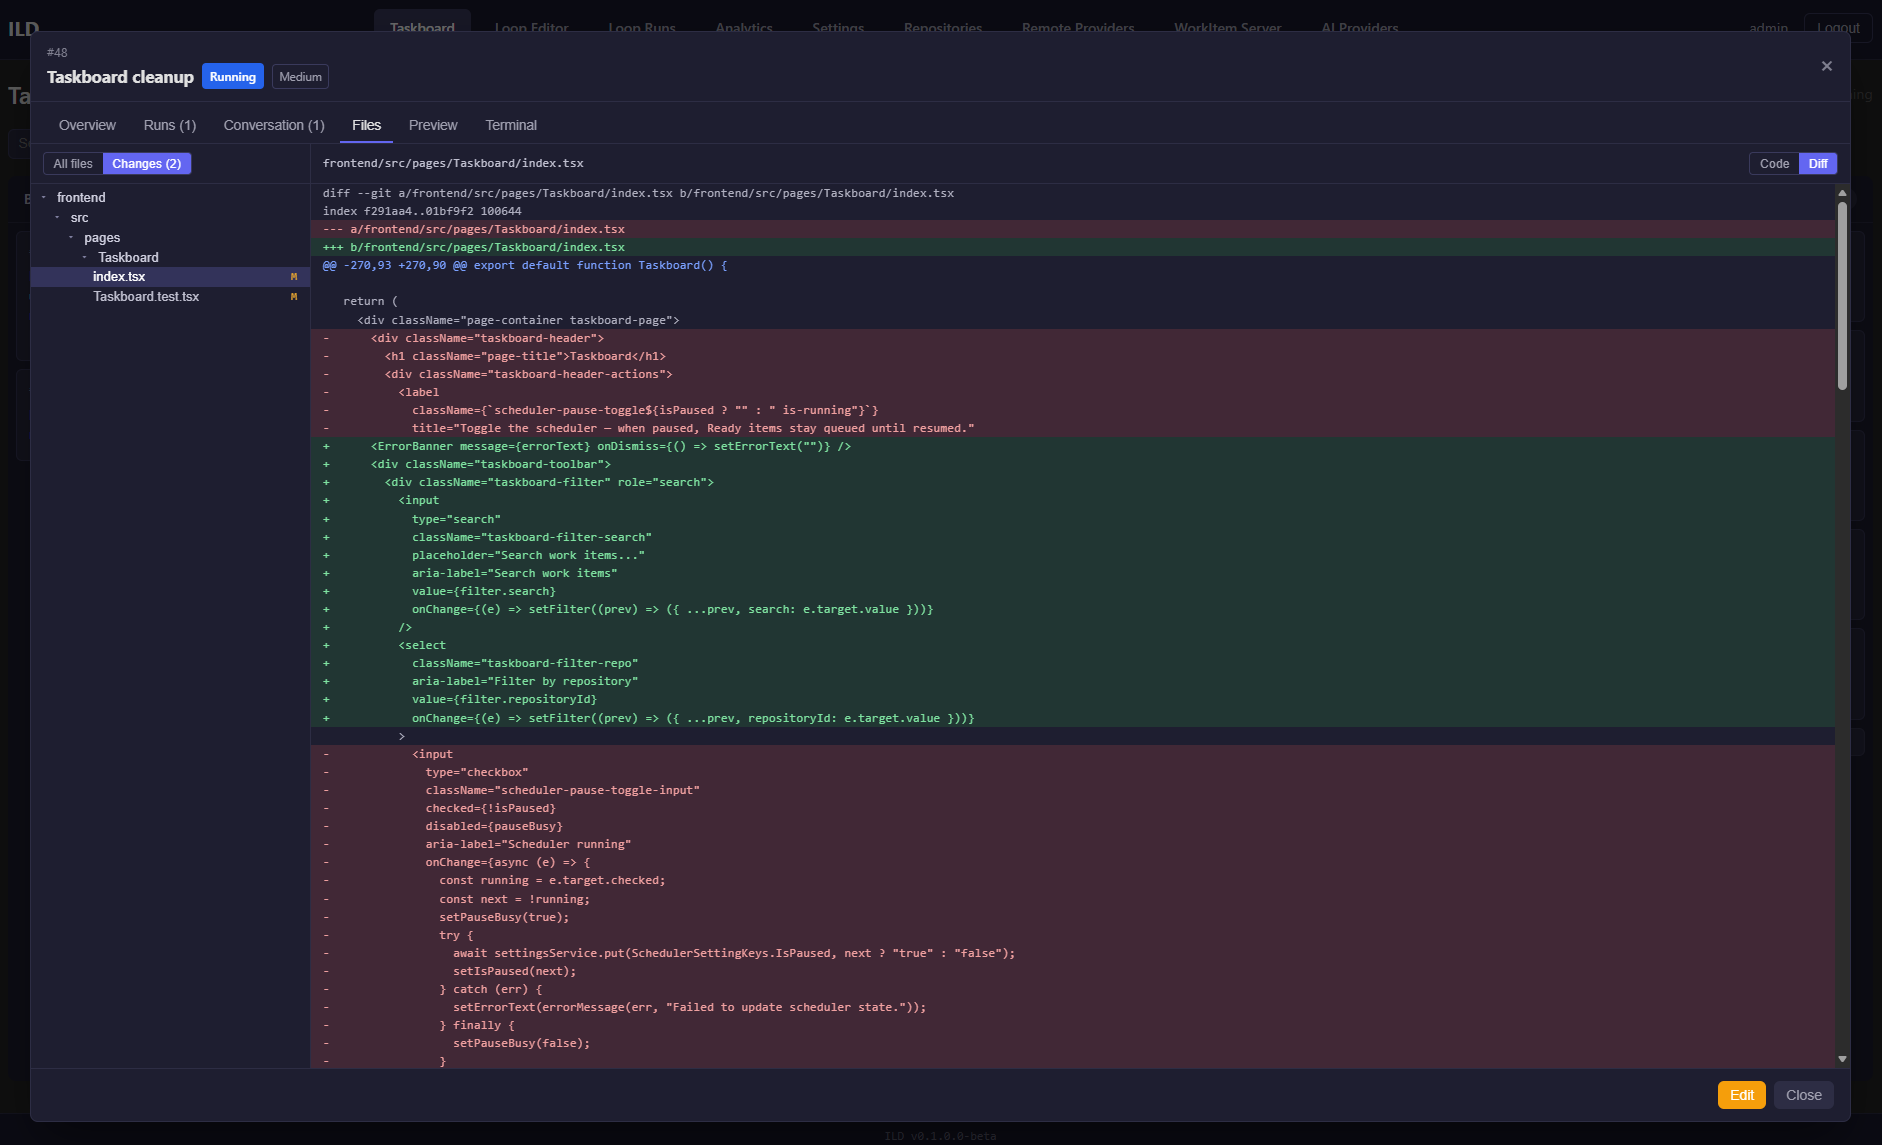
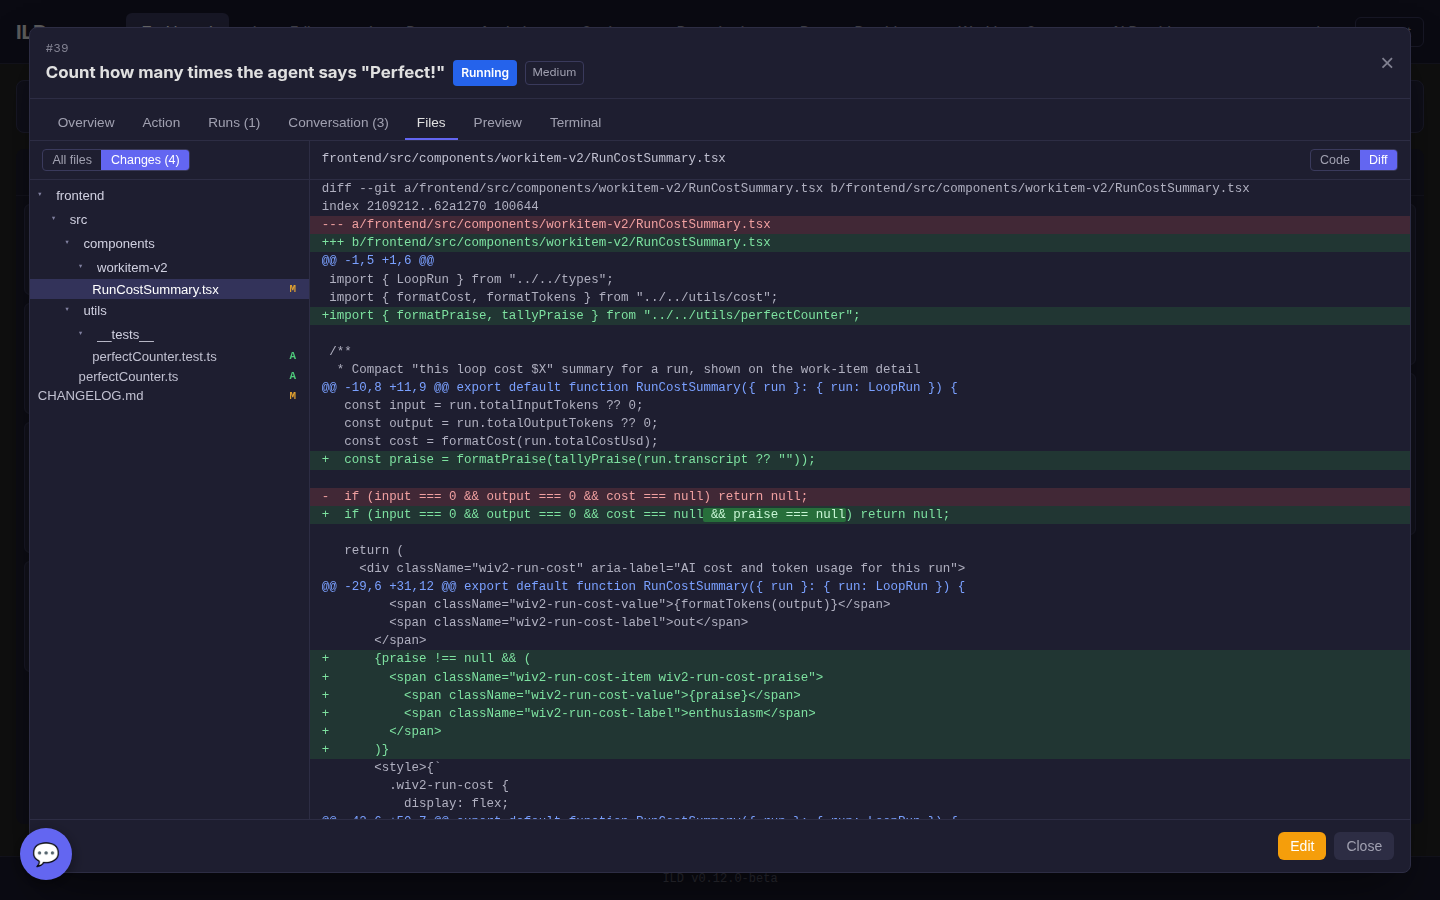
Cleanup preview

diff --git a/README.md b/README.md
@@ -34,21 +34,41 @@ See [docs/deployment.md](docs/deployment.md) for volumes, bind mounts, and first
 
 ## Screenshots
 
-**Loop Editor** — build loop templates visually by wiring together `Start`, `Prompt`, `AI`, `PR`, `Cleanup`, and other node types. Edges carry success, failure, and custom routing so you can model retries, human gates, and multi-stage review flows without touching config files.
+**Taskboard** — every work item across the seven statuses, in one view. A running card carries the node it is on and how long it has been there; a parked one says why it stopped, down to the PR's CI and review verdicts. Tags that name a loop template are highlighted, because that is what decides which loop the item runs.
+
+![Taskboard](docs/screenshots/TaskboardOverview.png)
+
+**AI chat** — a chat bubble on every page, wired to the same work-item tools the loops use. Ask it what is on the board and it reads the real one; tell it to file something and the card is there when you close the panel.
+
+![AI chat](docs/screenshots/ChatWorkItems.png)
+
+**Loop Editor** — build loop templates visually by wiring together `Start`, `Prompt`, `AI`, `PR`, `Condition`, `Human`, and `Cleanup` nodes. This is the `DevTeam` loop: an orchestrator that routes to a spec analyst, an explorer, a developer, a QA engineer and a reviewer, with named edges — `qa_failed`, `on_merge_conflict`, `ask_human` — carrying the work back to whichever role should handle it.
 
 ![Loop Editor](docs/screenshots/LoopEditorExample.png)
 
-**Live output** — the Overview tab on a running work item streams the AI agent's tool calls and reasoning in real time alongside run metadata: status, priority, repository, loop assignment, branch, and dependencies.
+**Run timeline** — the Runs tab replays a run node by node: what each one was given, what it produced, how long it took, and what the AI nodes cost in tokens and dollars. Any node can be retried on its own without restarting the loop.
 
-![Live output](docs/screenshots/OverviewLiveOutput.png)
+![Run timeline](docs/screenshots/RunTimeline.png)
+
+**Human gates** — when a loop reaches a `Human` or `PR` node it parks and waits. The Action tab shows why it stopped, the pull request's state and review thread, and the buttons that send it back down a success, failure, or custom edge.
+
+![Human gates](docs/screenshots/HumanFeedbackPr.png)
 
 **Files diff** — the Files tab shows the exact git diff produced by the AI agent inside its isolated worktree, so you can review every addition and deletion before the branch is pushed or a PR is opened.
 
 ![Files diff](docs/screenshots/FilesDiffView.png)
 
-**QA preview** — the Preview tab boots the project's full stack (API, app, WorkItem Server) inside the run's worktree and gives you a direct link to open and test the AI's changes live before they are merged. Configured via [`ild.config.json`](docs/configuration.md#ildconfigjson) in the repository root.
+**QA preview** — the Preview tab boots the project's own services inside the run's worktree, on ports allocated for that run, and gives you a link to open and test the AI's changes live before they are merged. Which services, and how they start, comes from [`ild.config.json`](docs/configuration.md#ildconfigjson) in the repository root.
 
 ![QA preview](docs/screenshots/PreviewRunning.png)
+
+**Network** — agents reach the outside world through one proxy, and every attempt is on the record: an allow/block list, a live log of what was tried and what happened to it, and an **Allow** button on any blocked row. Forwards relay a named destination on loopback for the clients that cannot be pointed at a proxy — databases, caches, mail.
+
+![Network](docs/screenshots/SettingsNetwork.png)
+
+**Run analytics** — what the loops actually cost. Totals and per-day spend, broken down by agent provider and by loop template, so an expensive template is visible before the bill is.
+
+![Run analytics](docs/screenshots/AnalyticsCost.png)
 
 ## Documentation
 
